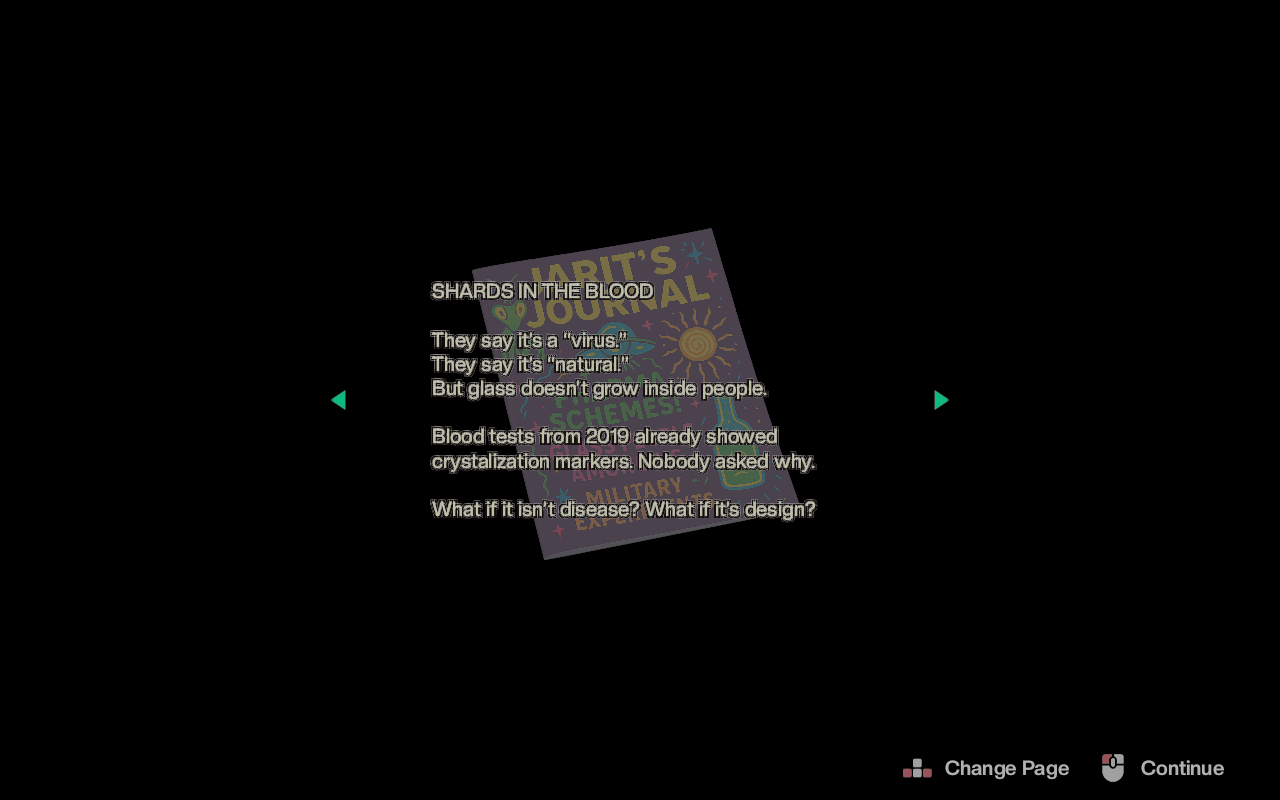
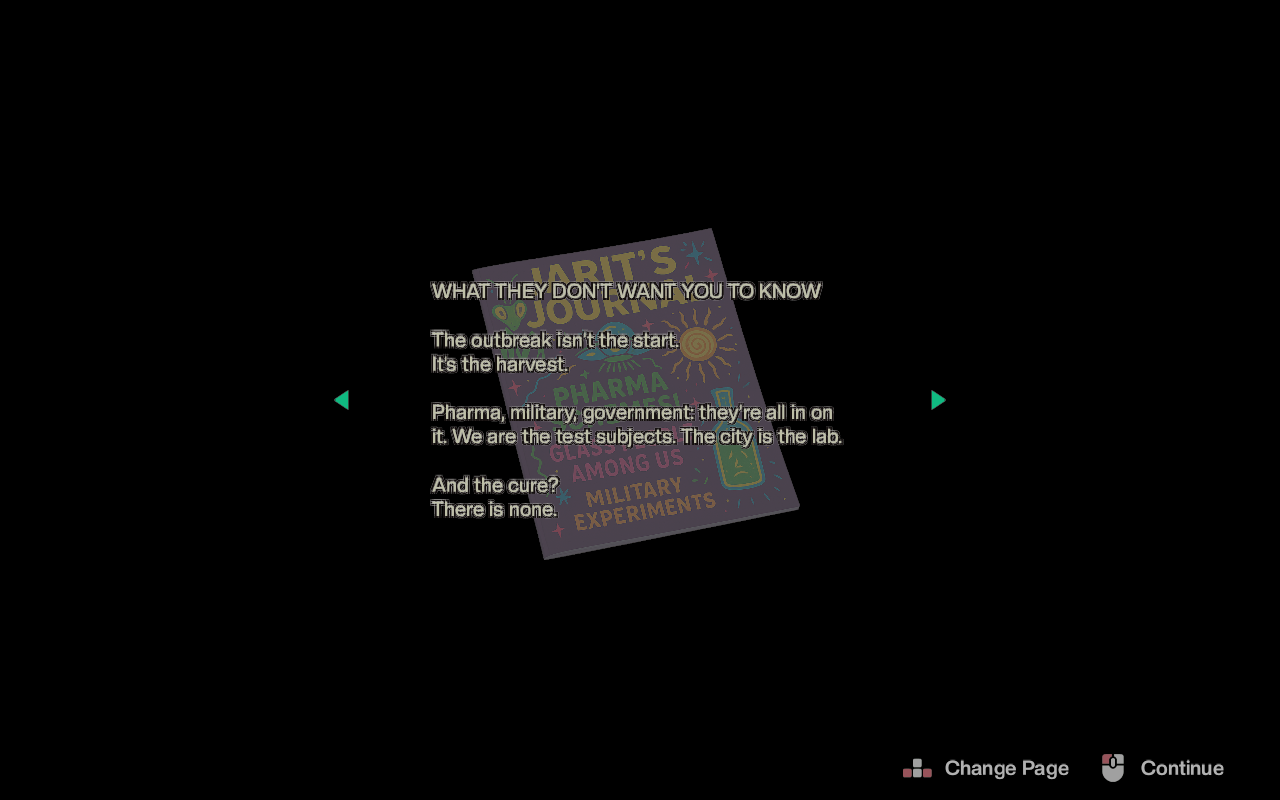
update README

Changed region(s): [[0.3125, 0.4062, 0.6562, 0.6562], [0.3125, 0.3438, 0.6562, 0.375]]

diff --git a/README.md b/README.md
@@ -3,10 +3,10 @@
 The _Game_ is an in-development survival horror game for Mac, Linux, and Windows.
 
  
+![](.screenshots/scene.png)
 ![](.screenshots/inventory.png)
 ![](.screenshots/inspect.png)
 ![](.screenshots/document.png)
 ![](.screenshots/map.png)
 ![](.screenshots/title.png)
-![](.screenshots/credits.png)
 
